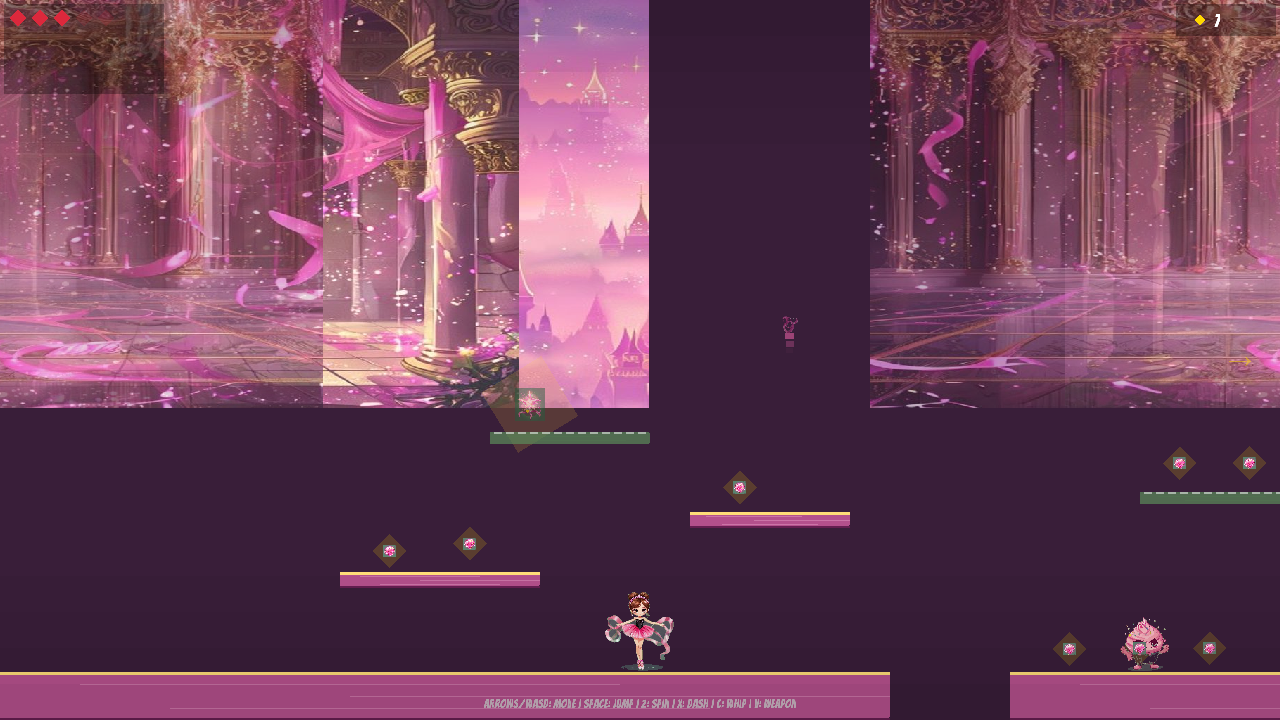
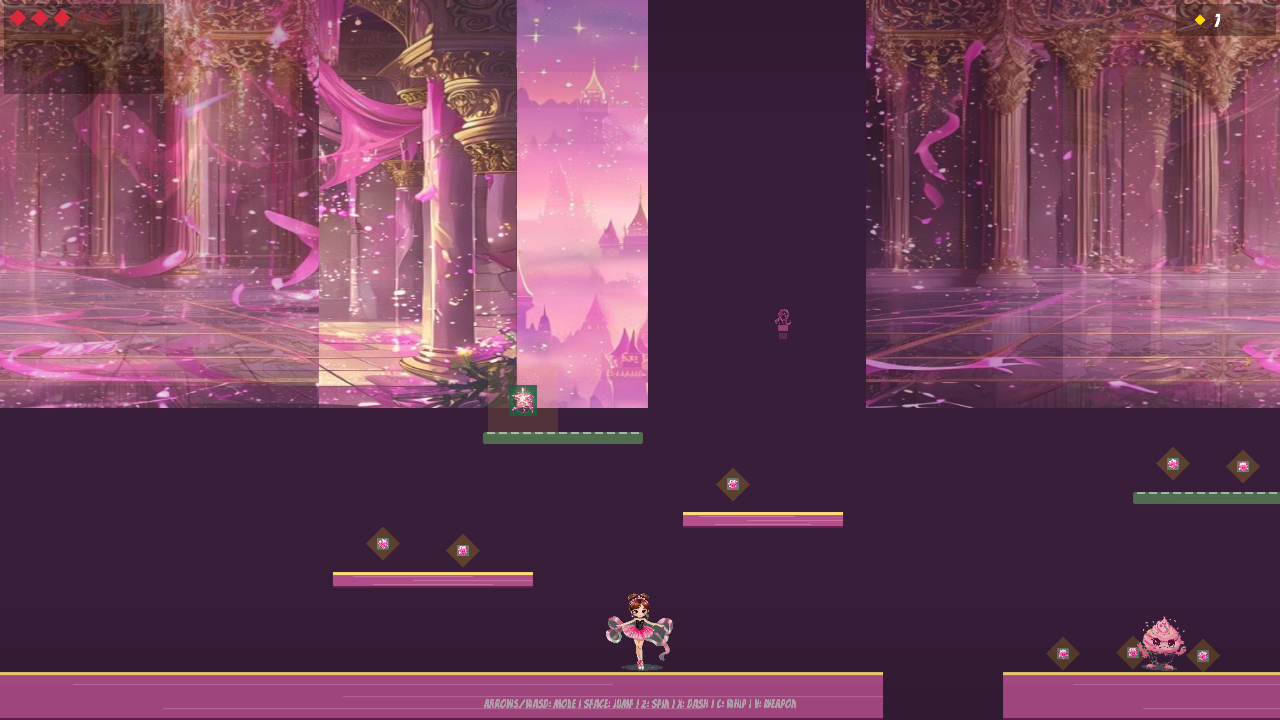
Horizontal bounds + reduce spawn grace + linear texture filter
- Clamp player.pos.x to level bounds so you can't walk off left/right edge
- Spawn grace 1.5s → 0.3s (was protecting player past first enemy)
- texFilter: 'linear' → smoother sprite scaling for parallax backgrounds
- Playtest: new 'natural walk-right eventually loses a life' check verifies
  touch damage without teleport/state manipulation (31/31 passing)

diff --git a/src/levels/loader.ts b/src/levels/loader.ts
@@ -240,9 +240,20 @@ export default function loadLevel(levelData: LevelData, levelId: string = "level
   })
 
   // Kill zone: fall below the visible playfield → lose a life and respawn
+  // Also clamp horizontal position to level bounds so player can't walk
+  // off the left or right edge.
   player.onUpdate(() => {
     if (player.pos.y > SCREEN.HEIGHT + 60) {
       hitPlayer(player, levelData.playerSpawn.x, levelData.playerSpawn.y, levelId)
+      return
+    }
+    // Horizontal bounds
+    if (player.pos.x < 16) {
+      player.pos.x = 16
+      if (player.vel.x < 0) player.vel.x = 0
+    } else if (player.pos.x > levelData.width - 16) {
+      player.pos.x = levelData.width - 16
+      if (player.vel.x > 0) player.vel.x = 0
     }
   })
 

diff --git a/src/main.ts b/src/main.ts
@@ -16,6 +16,9 @@ kaplay({
   height: SCREEN.HEIGHT,
   background: [20, 15, 35],
   canvas: document.querySelector("#game") as HTMLCanvasElement ?? undefined,
+  // Linear filtering smooths upscaled sprites (fixes pixel-art look on
+  // parallax backgrounds that render smaller than their display size)
+  texFilter: "linear",
 })
 
 setGravity(GRAVITY)

diff --git a/src/components/health.ts b/src/components/health.ts
@@ -17,7 +17,7 @@ export function initHealth(player: any) {
     isNinja: false,
     sequins: 0,
     ribbons: 0,
-    invincibleTimer: 1.5, // spawn grace period
+    invincibleTimer: 0.3, // brief spawn grace
   } as PlayerHealth
   player.isInvincible = true
 }
